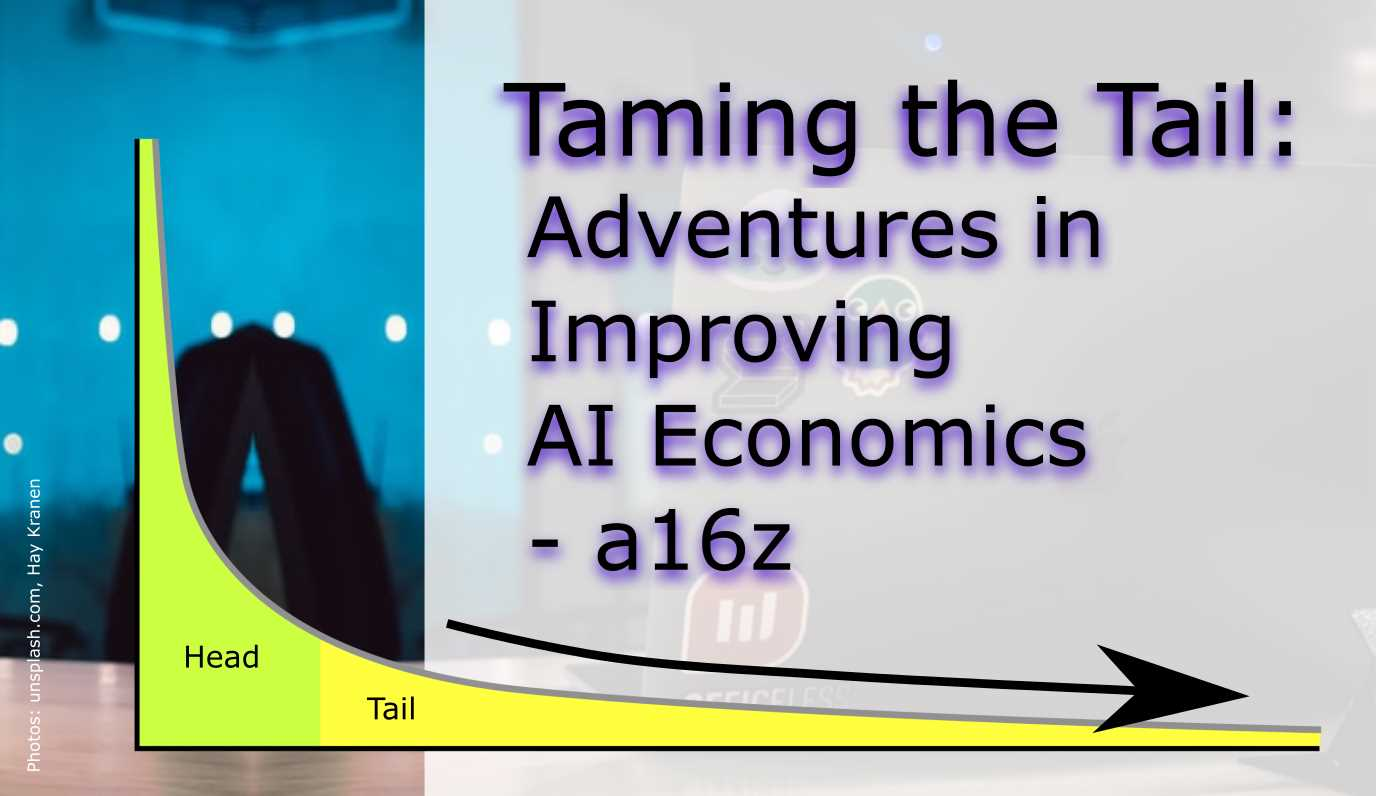
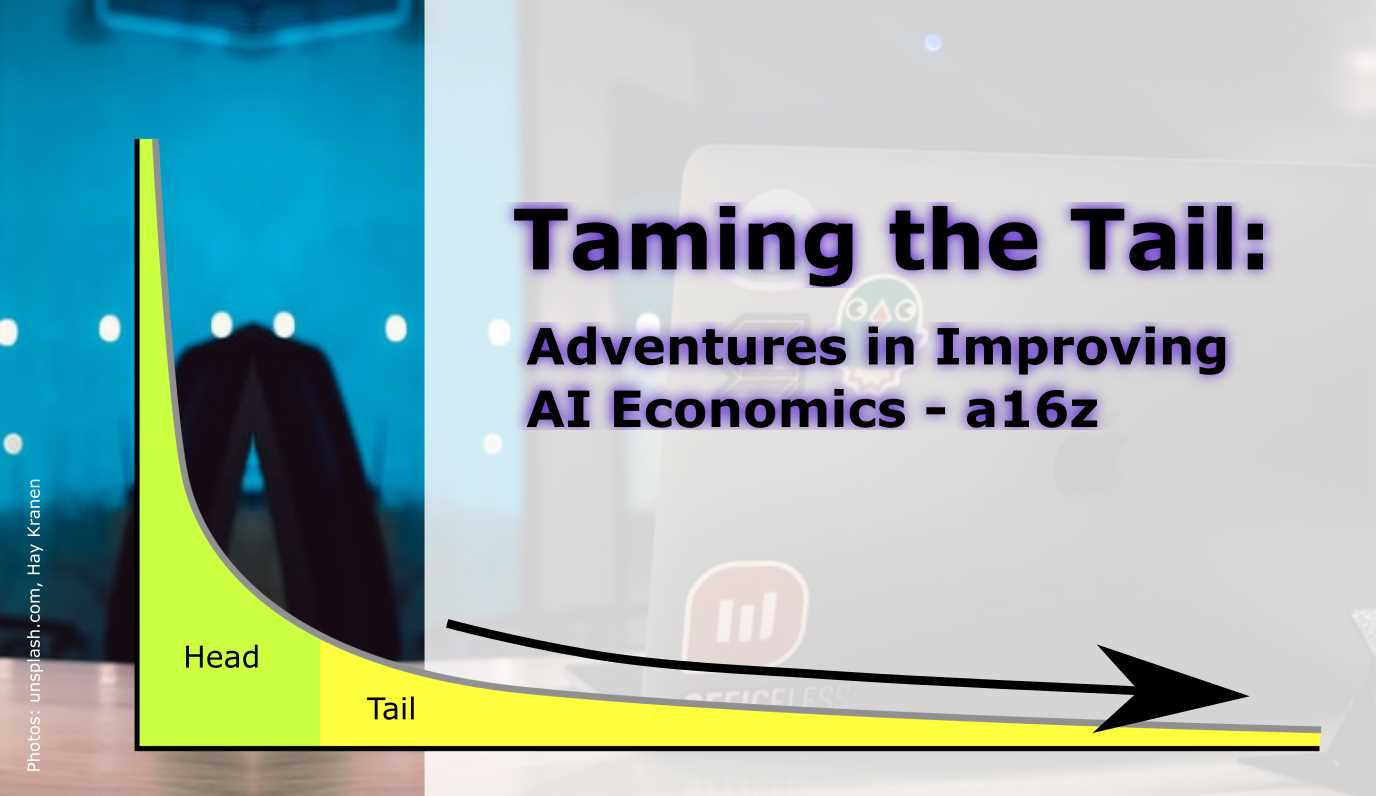
new AI post

Changed region(s): [[0.3438, 0.0905, 0.9375, 0.603], [0.375, 0.6332, 0.5938, 0.7538]]

diff --git a/projectblog/_posts/2021-01-25-SW_AI.md b/projectblog/_posts/2021-01-25-SW_AI.md
@@ -1,0 +1,124 @@
+---
+title: The New Business of AI (and How It’s Different From Traditional Software) - a16z
+image: /assets/img/research/SW_AI/SW_AI_Cover.jpg
+description: > 
+  Summary from reading the Andreessen Horowitz blog
+---
+
+0. this unordered seed list will be replaced by toc as unordered list
+{:toc}
+The writeup below are some highlights I wrote for myself. If you find the writeup useful and want to know more, then you should absolutely read the article linked.
+{:.note}
+
+## Preface
+
+This is my personal summary from reading <a href="https://a16z.com/2020/02/16/the-new-business-of-ai-and-how-its-different-from-traditional-software/" target="_blank">The New Business of AI (and How It’s Different From Traditional Software)</a>, which was published on the Andreessen Horowitz blog <a href="https://a16z.com/" target="_blank">a16z.com</a>, a Silicon Valley venture capital (VC) investor.
+This VC supported the likes of Skype and Facebook when they were still little known and dozens of others whos digital services we are using in our daily lives.
+The article is excellently written, and part of the <a href="https://a16z.com/2020/12/17/ai-in-2020/" target="_blank">AI in 2020</a> series.
+This series is a distillation of dozens of interviews the authors lead with ML tams and thus marks a great resource for machine learning professionals who want deep insights into new AI developments, be it startups or mature companies.
+And last but not least it helps evaluating the next job opportunities.
+Most of all, the series is intended by Andreessen Horowitz to support AI companies, a sector in which they are investing heavily.
+
+## Introduction
+
+Investors are betting today that AI companies will make a similar return as software companies.
+
+However, in many cases that AI companies have a **different** economic construction than software businesses:
+
+- Lower gross margins -> heavy cloud infrastructure + human support
+
+- Scaling problems due to edge cases.
+
+- Weaker defensive moats -> commoditization of AI models and challenges with data network effects.
+
+
+Consistent pattern in the financial data of AI companies: gross margins 50-60% range, 60-80%+ for SaaS businesses.
+Early investors pushing AI companies for rapid growth over returns may obscure lower growth rates.
+AI is going to be a new type of business - after SaaS - and it is clearly differtent from Software.
+The differences have to be acknowledged and addressed.
+
+## Software + Services = AI?
+
+### Software Company
+
+Software (including SaaS) can be produced once and sold many times. Benefits are: A) recurring revenue streams, B) high (60-80%+) gross margins, and C) superlinear scaling with (rare) network effects, D) ownership of intellectual property (source code) builds defensive moats.
+
+### Service Company
+
+Each new project requires dedicated headcount and can be sold exactly once: B) revenue is non-recurring, B) gross margins are lower (30-50%), C) and scaling is linear at best, D) Defensibility is challenging – often based on brand or incumbent account control – because any IP not owned by the customer is unlikely to have broad applicability.
+
+### AI Company
+
+Appear to combine elements of both software and services.
+Most AI applications look + feel like normal software: interfacing with users, managing data, or integrating with other systems. 
+However, at the center is a set of trained data models.
+Maintaining these models is more like a services business. That is: requiring significant, customer-specific work and input costs beyond typical support and success functions.
+
+
+## Gross Margins, Part 1: Cloud costs can be massive for AI
+
+- AI is very demanding on cloud infrastructure: training, inference, and retraining due to data-drift, large file size input data and model transfer across cloud regions are more demanding than traditional software operations.
+
+- Combined, 25% (or more) of revenue are spent on cloud resources. Manual processing can be cheaper in a company's early start-up phase.
+
+- Model complexity is growing at fast rate. 10x data is needed for 2x model precision. CPU/GPUs can not be accellerated and made cheaper fast enough. Distributed computing solves speed issues, but not costs.
+
+
+## Gross Margins, Part 2: Many AI applications rely on "humans in the loop"
+
+- Training most of today's state-of-the-art AI models involves the manual cleaning and labeling of large datasets. This process is laborious, and expensive.
+
+- For many tasks, especially those requiring greater cognitive reasoning, humans are often plugged into AI systems in real time.
+
+- The need for human intervention will likely decline as the performance of AI models improves. It's unlikely that humans will be removed entirely.
+
+- How much will margins increase with AI fully automated? Reducing human intervention (and their costs) will likely increase cloud costs.
+
+
+
+## Scaling AI systems can be rockier - AI lives in the long tail
+
+- New customers increases the work for the ML team when the models have to be adjusted for these new customers -> drawing resources away from new sales. The problem is edge cases. Many AI apps have open-ended interfaces and operate on noisy, unstructured data (e.g., images, NLP).
+
+- Handling edge cases means endless possible input values. Each new customer deployment is likely to infer on completely new data.
+
+- AI companies spend time re-training the model for each new customer to eliminate edge cases prior to deployment until accuracy reaches acceptable levels.
+
+- Startups spend more time + resources for deployment than expected. Identifying challenges in advance can be difficult since traditional prototyping tools (mockups, prototypes, beta tests) do not cover edge cases.
+
+
+
+## The how to defend AI businesses has to be figured out
+
+- Some of the best defensive moats are *network effects*, high *switching costs*, and *economies of scale*. Additionally, branding comes from *first to market* and *near-exclusivity*.
+
+- For AI players, differention is harder: New model architectures aredeveloped mostly in open, academic settings. Reference implementations (pre-trained models) are available from open-source libraries, and hyperparameters can be optimized automatically.
+
+- While data is at the heart of AI, it is often owned by customers, in the public domain, or over time becomes a commodity.
+
+- Moats for AI companies appear to be shallower than for software and shallower than expected.
+
+
+
+## Building, scaling, and defending great AI companies – practical advice for founders
+
+- **Reduce model complexity:** If possible, share a single model (or set of models) among all customers. It is easier to maintain, faster to roll out, and supports a simpler, more efficient engineering organization. Result: minimize cloud costs.
+
+- **Choose problem domains carefully and narrowly:** The minimum viable task for AI models is narrower than expected. Choose problems that are hard for humans but easy for AI. That is high scale, low complexity tasks.
+
+- **Plan for high variable costs:** build a business model and Go-To-Market strategy with lower gross margins in mind. Understand the distribution of the model data. Model maintenance and human failover are first-order problems. Measure real variable cost (no hiding in R&D). Make conservative assumptions in financial models (esp. fundraise). Scale and (outside) tech advances may not solve the problem.
+
+- **Embrace services:** Building hybrid businesses (software/AI plus service) is harder than pure software, but this approach can provide deep insight into customer needs and yield fast-growing, market-defining companies.
+
+- **Plan for change in the tech stack:** AI is still new. Standardized tools are just now being built: tools to automate model training, make inference more efficient, standardize developer workflows. Tightly coupling an application to the current state may lead to an architectural disadvantage in thfuture.
+
+- **Build defensible:** It is unclear whether an AI model or the underlying data is a long-term moat. Good products and proprietary data almost always build good businesses. AI may vitalize old markets. Effective cloud startegies are key.
+
+
+
+## Summary
+
+Most AI systems are not like software and such the business works differently.
+AI businesse scale not as easily, and it is harder to build defensibility.
+Taken together, that makes AI feel more like a service business.
+These are unfamiliar patterns, which indicate that AI companies are truly something new, including massive opportunities.

diff --git a/projectblog/_posts/2021-01-20-Taming_Tail.md b/projectblog/_posts/2021-01-20-Taming_Tail.md
@@ -10,10 +10,19 @@ description: >
 The writeup below are some highlights I wrote for myself. If you find the writeup useful and want to know more, then you should absolutely read the article linked.
 {:.note}
 
-This is my personal summary from reading <a href="https://a16z.com/2020/08/12/taming-the-tail-adventures-in-improving-ai-economics/" target="_blank">Taming the Tail: Adventures in Improving AI Economics</a>, which was published on the Andreessen Horowitz blog <a href="https://a16z.com/" target="_blank">a16z.com</a>, a Silicon Vally venture capital (VC) investor. This VC supported the likes of Skype and Facebook when they were still little known and dozens of others whos digital services we are using in our daily lives.
-The article is excellently written, and part of the <a href="https://a16z.com/2020/12/17/ai-in-2020/" target="_blank">AI in 2020</a> series. This series is a distillation of dozens of interviews the authors lead with ML tams and thus marks a great resource for machine learning professionals who want deep insights into new AI developments, be it startups or mature companies. And last but not least it helps evaluating the next job opportunities. Most of all, the series is intended by Andreessen Horowitz to support AI companies, a sector in which they are investing heavily.
+## Preface
 
-AI companies is different from traditional software companies and are more challenging to scale and achieve the same profit margins. Often they have lower margins, are harder to scale, and don’t always have strong defensive moats.
+This is my personal summary from reading <a href="https://a16z.com/2020/08/12/taming-the-tail-adventures-in-improving-ai-economics/" target="_blank">Taming the Tail: Adventures in Improving AI Economics</a>, which was published on the Andreessen Horowitz blog <a href="https://a16z.com/" target="_blank">a16z.com</a>, a Silicon Valley venture capital (VC) investor.
+This VC supported the likes of Skype and Facebook when they were still little known and dozens of others whos digital services we are using in our daily lives.
+The article is excellently written, and part of the <a href="https://a16z.com/2020/12/17/ai-in-2020/" target="_blank">AI in 2020</a> series.
+This series is a distillation of dozens of interviews the authors lead with ML tams and thus marks a great resource for machine learning professionals who want deep insights into new AI developments, be it startups or mature companies.
+And last but not least it helps evaluating the next job opportunities.
+Most of all, the series is intended by Andreessen Horowitz to support AI companies, a sector in which they are investing heavily.
+
+## Introduction
+
+AI companies is different from traditional software companies.
+Often they have lower margins, are harder to scale, and don’t always have strong defensive moats.
 
 
 ## Part I: Understanding the problem to be solved
